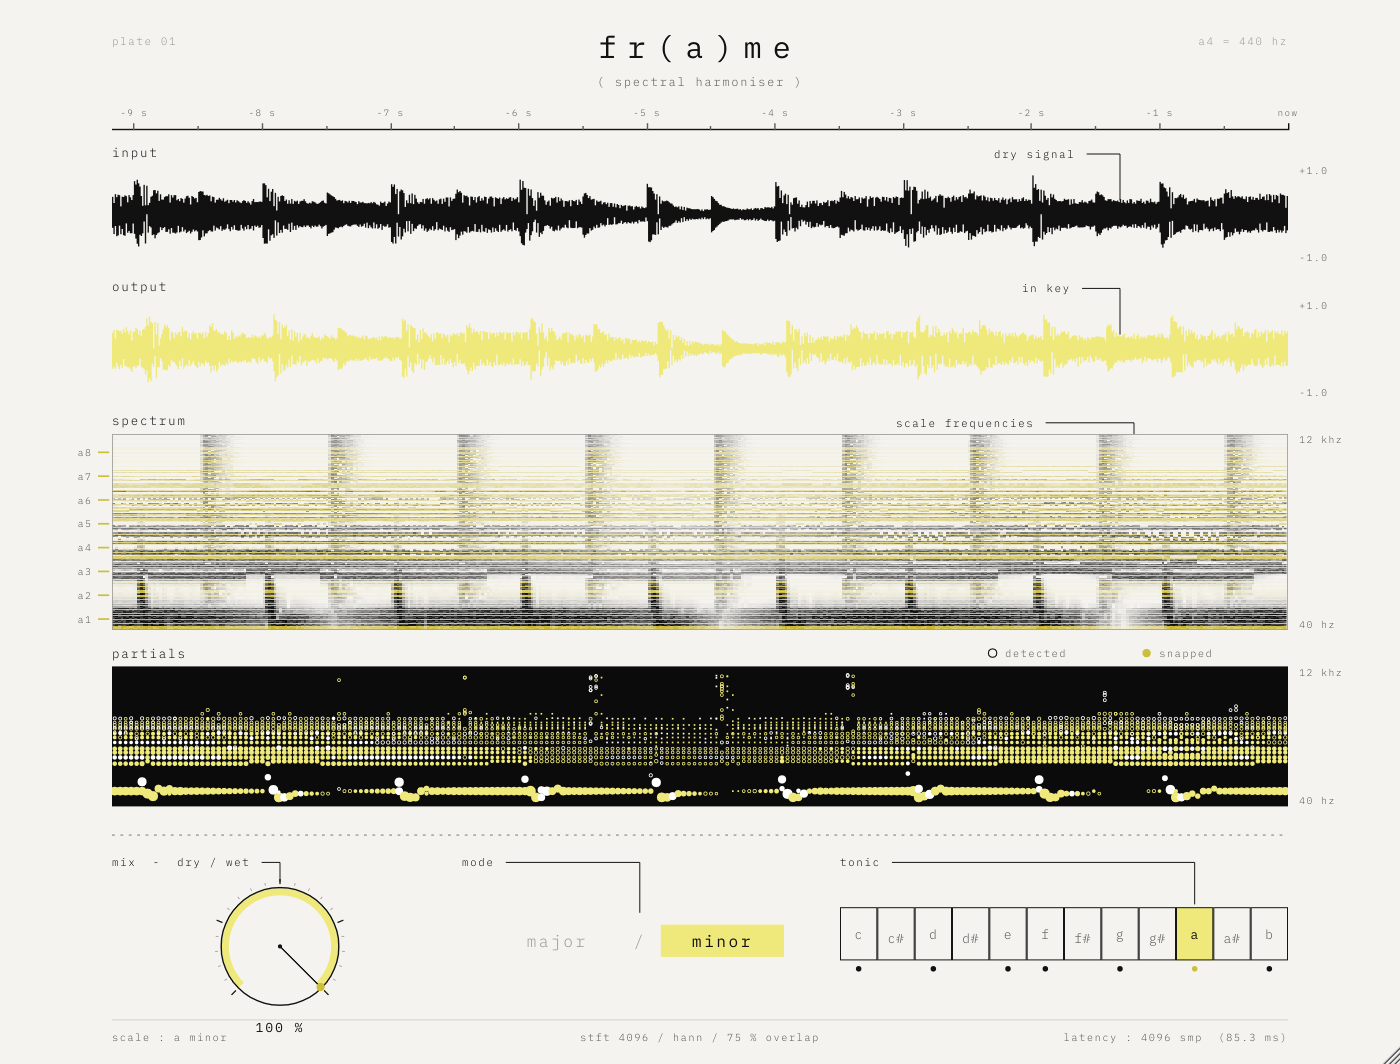
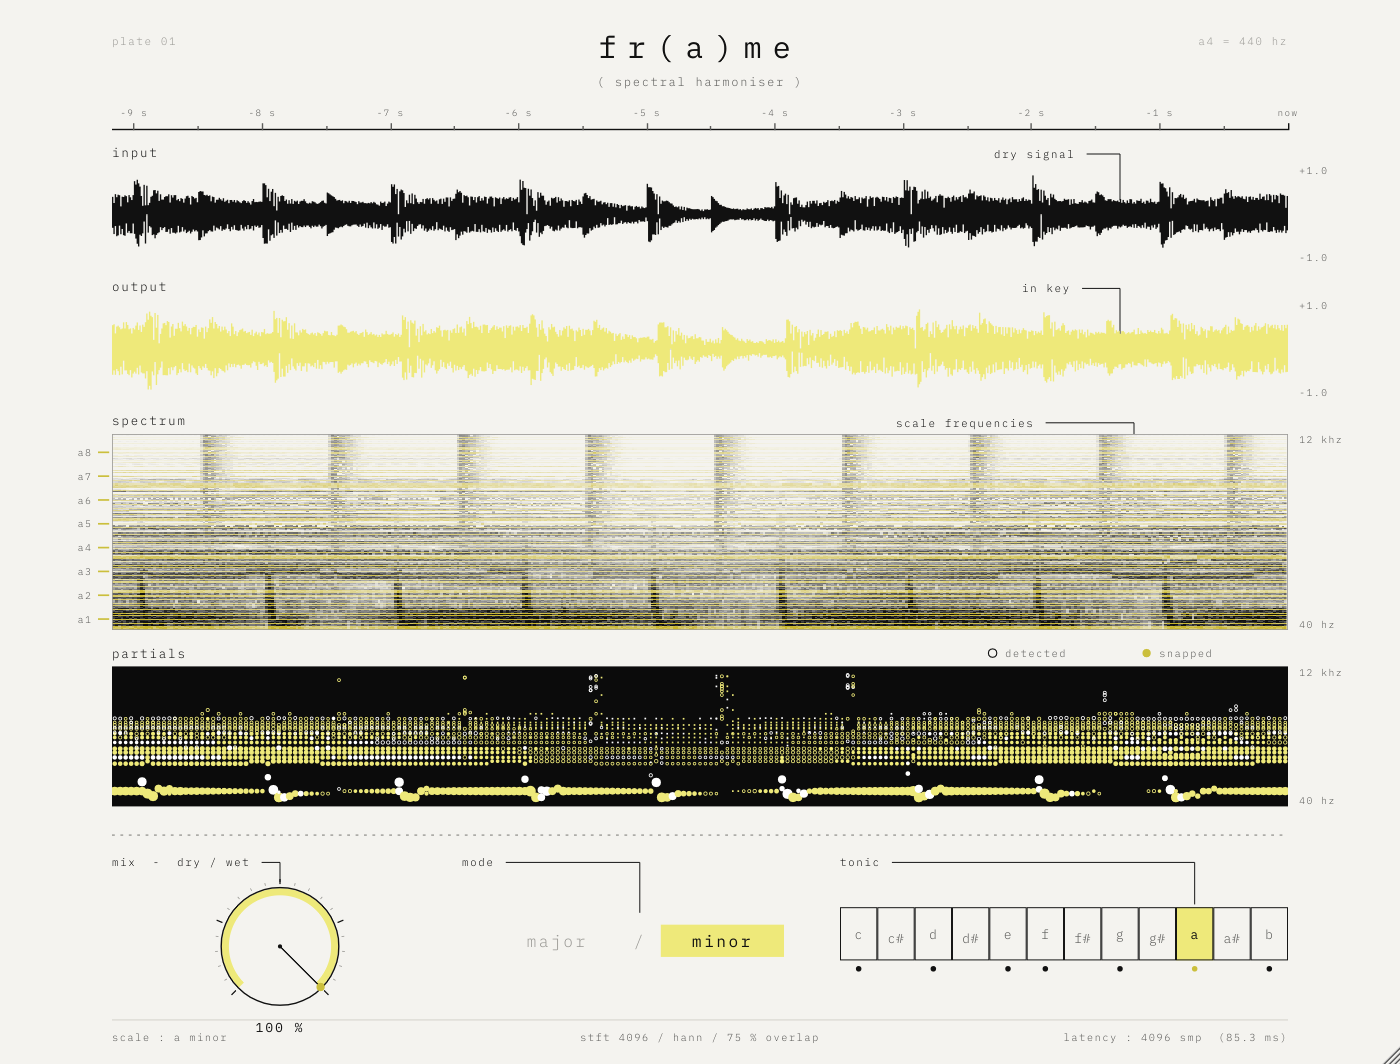
fr(a)me 1.1.0 : résonance harmonique (accords dans la gamme, queue ambiante)
- banque de résonateurs accordés sur la gamme, excités par les partiels recalés
- octave, tierce et quinte de la gamme ajoutées, T60 ≈ 4 s, stéréo large
- régions tonales recalées renforcées (+2 dB)
- test 7 : accord renforcé, rien hors gamme, queue qui s'éteint
- getTailLengthSeconds = 4.5 s

Claude-Session: https://claude.ai/code/session_01BthVUY6Bak1JTWBvTbc3au

Changed region(s): [[0.0614, 0.4652, 0.9214, 0.5893], [0.0921, 0.2791, 0.9214, 0.3722]]

diff --git a/Source/SpectralEngine.cpp b/Source/SpectralEngine.cpp
@@ -103,6 +103,21 @@ void SpectralEngine::prepare (double newSampleRate, int maxNumChannels)
     // Durée du fondu lors d'un changement de gamme : ~100 ms.
     scaleFadeStep = juce::jlimit (0.05f, 1.0f, (float) hopSize / (float) (0.1 * sampleRate));
 
+    // Résonateurs : montée ~90 ms, extinction T60 = resonanceT60Seconds.
+    {
+        const float framesPerSecond = (float) (sampleRate / hopSize);
+        resAttack = 1.0f - std::exp (-1.0f / (0.09f * framesPerSecond));
+        resDecay  = std::pow (10.0f, -3.0f / (resonanceT60Seconds * framesPerSecond));
+
+        // Phases de départ aléatoires (fixes) par note / harmonique / canal :
+        // les canaux ne sont pas corrélés, la queue s'ouvre en stéréo.
+        juce::Random rng (0xC0FFEE);
+        for (auto& note : resPhaseOffset)
+            for (auto& partial : note)
+                for (auto& ph : partial)
+                    ph = twoPi * rng.nextFloat();
+    }
+
     // Lignes du spectrogramme (axe logarithmique) → plages de bins.
     rowBinStart.assign (SpectralFrameInfo::numSpectrumRows, 0);
     rowBinEnd.assign   (SpectralFrameInfo::numSpectrumRows, 0);
@@ -133,6 +148,9 @@ void SpectralEngine::reset() noexcept
     prevNumPeaks = 0;
 
     rover = fftSize - hopSize;
+    resEnergy.fill (0.0f);
+    resExcite.fill (0.0f);
+    resPhase = resPhaseOffset;
     numPeaks = 0;
     firstFrame = true;
     previousMask = currentMask;
@@ -365,9 +383,13 @@ void SpectralEngine::processFrame() noexcept
 
         std::fill (Z.begin(), Z.end(), Complex {});
 
+        // Les partiels tonaux (donc recalés dans la gamme) sont renforcés.
+        const float tonalGain = 1.0f + 0.26f * resonanceAmount;   // ≈ +2 dB
+
         for (int p = 0; p < numPeaks; ++p)
         {
-            const Complex rot = std::polar (1.0f, peakTheta[(size_t) p]);
+            const float gain = peakTonalAge[(size_t) p] >= 1 ? tonalGain : 1.0f;
+            const Complex rot = std::polar (gain, peakTheta[(size_t) p]);
             const int shift = peakShift[(size_t) p];
             const int s = juce::jmax (regionStart[(size_t) p], -shift);
             const int e = juce::jmin (regionEnd[(size_t) p], numBins - 1 - shift);
@@ -376,7 +398,16 @@ void SpectralEngine::processFrame() noexcept
                 Z[(size_t) (k + shift)] += X[(size_t) k] * rot;
         }
 
+    }
+
+    // ---- 6b. Résonance harmonique -------------------------------------------
+    updateResonators();
+    addResonators (nch);
+
+    for (int c = 0; c < nch; ++c)
+    {
         // DC et Nyquist doivent rester réels pour une IFFT réelle.
+        auto& Z = spectrumOut[(size_t) c];
         Z[0] = { Z[0].real(), 0.0f };
         Z[(size_t) (numBins - 1)] = { Z[(size_t) (numBins - 1)].real(), 0.0f };
     }
@@ -404,6 +435,128 @@ void SpectralEngine::processFrame() noexcept
     firstFrame = false;
     if (scaleFade < 1.0f)
         scaleFade = juce::jmin (1.0f, scaleFade + scaleFadeStep);
+}
+
+//==============================================================================
+//  Résonance harmonique
+//==============================================================================
+int SpectralEngine::scaleStepAbove (int midiNote, int steps) const noexcept
+{
+    // Monte de `steps` degrés dans la gamme courante (2 = tierce, 4 = quinte).
+    int n = midiNote;
+    for (int found = 0, guard = 0; found < steps && guard < 24; ++guard)
+        if (frame::maskContains (currentMask, ++n))
+            ++found;
+    return n;
+}
+
+void SpectralEngine::updateResonators() noexcept
+{
+    const float fullScale = (float) fftSize * 0.25f;
+    resExcite.fill (0.0f);
+
+    auto excite = [this] (int note, float amp)
+    {
+        const int i = note - resLowNote;
+        if (i >= 0 && i < numResonators)
+            resExcite[(size_t) i] = juce::jmax (resExcite[(size_t) i], amp);
+    };
+
+    if (resonanceAmount > 0.0f && currentMask != 0)
+    {
+        for (int p = 0; p < numPeaks; ++p)
+        {
+            if (peakTonalAge[(size_t) p] < 1)
+                continue;                                 // bruit, attaques : pas d'excitation
+
+            const float amp = magnitude[(size_t) peakBin[(size_t) p]] / fullScale;
+            if (amp < 2.0e-4f)                            // < −74 dBFS : ignoré
+                continue;
+
+            const int note = (int) std::lround (frame::hzToMidi (peakTargetHz[(size_t) p]));
+            if (! frame::maskContains (currentMask, note))
+                continue;
+
+            excite (note,                         amp);          // la note elle-même
+            excite (note + 12,                    amp * 0.45f);  // octave
+            excite (scaleStepAbove (note, 4),     amp * 0.38f);  // quinte de la gamme
+            excite (scaleStepAbove (note, 2),     amp * 0.30f);  // tierce de la gamme
+        }
+    }
+
+    for (int i = 0; i < numResonators; ++i)
+    {
+        float& e = resEnergy[(size_t) i];
+        const float target = resExcite[(size_t) i];
+
+        if (! frame::maskContains (currentMask, resLowNote + i))
+            e *= 0.6f;                                    // hors gamme (après un changement) : extinction rapide
+        else if (target > e)
+            e += (target - e) * resAttack;                // montée douce (« bloom »)
+        else
+            e *= resDecay;                                // longue queue
+
+        if (e < 1.0e-6f)
+            e = 0.0f;
+    }
+}
+
+void SpectralEngine::addSinusoid (std::vector<Complex>& Z, float k0, float amplitude, float phase0) const noexcept
+{
+    // Spectre exact d'une sinusoïde fenêtrée par Hann (fenêtre de N points) :
+    //   X[k] = A/2 · e^{j(φ − πδ)} · N·(½ sinc δ + ¼ sinc(δ−1) + ¼ sinc(δ+1)),  δ = k − k0
+    // sur ±4 bins autour de k0 (au-delà, < −90 dB).
+    const int kc = (int) std::lround (k0);
+    const float scale = 0.5f * amplitude * (float) fftSize;
+
+    auto sinc = [] (float x) { return std::abs (x) < 1.0e-6f ? 1.0f : std::sin (pi * x) / (pi * x); };
+
+    for (int k = juce::jmax (1, kc - 4); k <= juce::jmin (numBins - 2, kc + 4); ++k)
+    {
+        const float d = (float) k - k0;
+        const float w = 0.5f * sinc (d) + 0.25f * (sinc (d - 1.0f) + sinc (d + 1.0f));
+        Z[(size_t) k] += std::polar (scale * w, phase0 - pi * d);
+    }
+}
+
+void SpectralEngine::addResonators (int nch) noexcept
+{
+    static constexpr float partialGain[resPartials] = { 1.0f, 0.5f, 0.28f, 0.16f, 0.09f };
+    static constexpr float detune[resChannels] = { 0.9992f, 1.0008f };   // ±1.4 cent : largeur stéréo
+
+    const float maxHz = juce::jmin (12000.0f, (float) sampleRate * 0.45f);
+    const float hopSeconds = (float) hopSize / (float) sampleRate;
+
+    // Normalisation : la somme des amplitudes reste sous ~−11 dBFS, quel que
+    // soit le nombre de notes qui sonnent.
+    float total = 0.0f;
+    for (float e : resEnergy) total += e;
+    const float level = 0.42f * resonanceAmount;
+    const float norm = (total * level > 0.28f) ? 0.28f / (total * level) : 1.0f;
+
+    for (int i = 0; i < numResonators; ++i)
+    {
+        const float e = resEnergy[(size_t) i];
+        const float f0 = (float) frame::midiToHz (resLowNote + i);
+
+        for (int h = 0; h < resPartials; ++h)
+        {
+            const float f = f0 * (float) (h + 1);
+
+            for (int c = 0; c < resChannels; ++c)
+            {
+                const float fc = f * (nch > 1 ? detune[c] : 1.0f);
+                float& ph = resPhase[(size_t) i][(size_t) h][(size_t) c];
+
+                if (e > 0.0f && f < maxHz && c < nch)
+                    addSinusoid (spectrumOut[(size_t) c], fc / binHz, e * level * norm * partialGain[h], ph);
+
+                // La phase avance à chaque trame, que la note sonne ou non :
+                // elle reprend toujours de façon continue.
+                ph = wrapPhase (ph + twoPi * fc * hopSeconds);
+            }
+        }
+    }
 }
 
 //==============================================================================

diff --git a/tests/EngineTest.cpp b/tests/EngineTest.cpp
@@ -106,6 +106,7 @@ int main (int argc, char** argv)
 
     SpectralEngine engine;
     engine.prepare (sr, 2);
+    engine.setResonanceAmount (0.0f);      // tests 1 à 6 : recalage seul (mesurable)
     const int latency = engine.getLatencySamples();
     std::printf ("fft %d, latence %d échantillons (%.1f ms)\n", engine.getFftSize(), latency, 1000.0 * latency / sr);
 
@@ -171,7 +172,7 @@ int main (int argc, char** argv)
         juce::AudioBuffer<float> b (1, len);
         b.clear();
         sine (b, 300.0, 0.5f);
-        SpectralEngine e; e.prepare (sr, 1);
+        SpectralEngine e; e.prepare (sr, 1); e.setResonanceAmount (0.0f);
         float maxJump = 0.0f, steadyJump = 0.0f;
         const int block = 256;
         for (int pos = 0; pos < len; pos += block)
@@ -313,6 +314,51 @@ int main (int argc, char** argv)
             writeWav (outDir.getChildFile ("drums_avant.wav"), dry);
             writeWav (outDir.getChildFile ("drums_apres_do_majeur.wav"), b);
         }
+    }
+
+    // ---- 7. Résonance harmonique : accord dans la gamme + queue ambiante -----
+    {
+        std::printf ("7. résonance harmonique (la4 tenu 1 s puis silence, la mineur)\n");
+        const int len = (int) sr * 5, stop = (int) sr;
+        juce::AudioBuffer<float> b (2, len);
+        b.clear();
+        sine (b, 440.0, 0.4f, 0, stop);
+        for (int n = stop - 480; n < stop; ++n)               // fin du sinus en fondu (pas de clic)
+            for (int c = 0; c < 2; ++c) b.setSample (c, n, b.getSample (c, n) * (float) (stop - n) / 480.0f);
+
+        SpectralEngine e; e.prepare (sr, 2);
+        runEngine (e, b, 512, aMinor);
+
+        bool finite = true; float peak = 0.0f;
+        for (int c = 0; c < 2; ++c) for (int n = 0; n < len; ++n)
+        { const float v = b.getSample (c, n); finite &= std::isfinite (v); peak = juce::jmax (peak, std::abs (v)); }
+
+        // Niveau des notes de l'accord pendant la note tenue (fenêtre 0.5–1 s, réalignée)
+        auto bandLevel = [&] (int start, double hz)
+        {
+            constexpr int order = 14, N = 1 << order;
+            juce::dsp::FFT f (order);
+            std::vector<float> w ((size_t) N * 2, 0.0f);
+            for (int n = 0; n < N; ++n)
+                w[(size_t) n] = b.getSample (0, start + n) * (0.5f - 0.5f * std::cos (juce::MathConstants<float>::twoPi * (float) n / (float) N));
+            f.performFrequencyOnlyForwardTransform (w.data(), true);
+            const int k = (int) std::lround (hz * N / sr);
+            float m = 0; for (int j = k - 3; j <= k + 3; ++j) m = juce::jmax (m, w[(size_t) j]);
+            return juce::Decibels::gainToDecibels (m / (N * 0.25f), -150.0f);
+        };
+        const int hold = latency + (int) (0.6 * sr);
+        const float a4 = bandLevel (hold, 440.0), a5 = bandLevel (hold, 880.0),
+                    e5 = bandLevel (hold, 659.26), c5 = bandLevel (hold, 523.25), bb = bandLevel (hold, 466.16);
+        std::printf ("     pendant : la4 %.1f dB  la5 %.1f  mi5 (quinte) %.1f  do5 (tierce) %.1f  | la#4 (hors gamme) %.1f\n", a4, a5, e5, c5, bb);
+
+        auto rms = [&] (double t0) { return juce::Decibels::gainToDecibels (b.getRMSLevel (0, latency + (int) (t0 * sr), (int) (0.2 * sr)), -150.0f); };
+        const float r05 = rms (1.5), r25 = rms (3.0), r45 = rms (4.6);
+        std::printf ("     queue après l'arrêt : +0.5 s %.1f dB, +2 s %.1f dB, +3.6 s %.1f dB ; crête %.2f\n", r05, r25, r45, peak);
+
+        check (finite && peak < 1.0f, "pas de saturation ni de valeur invalide");
+        check (a5 > -45.0f && e5 > -45.0f && c5 > -50.0f && bb < c5 - 25.0f, "octave, quinte et tierce de la gamme renforcées, rien hors gamme");
+        check (r05 > -40.0f && r25 < r05 - 6.0f && r45 < r25, "queue ambiante qui s'éteint progressivement");
+        if (outDir != juce::File()) writeWav (outDir.getChildFile ("resonance_la_mineur.wav"), b);
     }
 
     std::printf ("\n%s (%d échec%s)\n", failures == 0 ? "TOUS LES TESTS PASSENT" : "ÉCHECS", failures, failures > 1 ? "s" : "");

diff --git a/Source/SpectralEngine.h b/Source/SpectralEngine.h
@@ -27,7 +27,18 @@
          pas, on recale.
       5. Le même déplacement / phaseur est appliqué à chaque canal : l'image
          stéréo est conservée.
-      6. IFFT, fenêtre de synthèse de Hann, overlap-add.
+      6. Résonance harmonique (« chroma ») : chaque partiel tonal recalé excite
+         une banque de résonateurs accordés sur les notes de la gamme. Chaque
+         résonateur excité sonne sa note avec 5 harmoniques, et appelle aussi
+         l'octave, la tierce et la quinte DE LA GAMME au-dessus : l'harmonie est
+         renforcée en accords dans la tonalité. Les résonateurs montent en
+         douceur (~90 ms) et s'éteignent lentement (T60 ≈ 4 s), avec un léger
+         désaccord gauche/droite : une queue ambiante, comme une réverbe qui
+         ne jouerait que des notes justes. Ils sont synthétisés directement
+         dans le domaine spectral (noyau de Hann exact, phase continue). Les
+         régions tonales recalées sont aussi légèrement amplifiées (+2 dB).
+         Bruit et transitoires n'excitent pas les résonateurs.
+      7. IFFT, fenêtre de synthèse de Hann, overlap-add.
 
     Contraintes temps réel : toutes les mémoires sont allouées dans prepare().
     process() n'alloue rien et ne prend aucun verrou. Les données de
@@ -39,6 +50,7 @@
 
 #include <juce_audio_basics/juce_audio_basics.h>
 #include <juce_dsp/juce_dsp.h>
+#include <array>
 #include <atomic>
 #include <complex>
 #include <memory>
@@ -89,6 +101,13 @@ public:
         Réservé aux tests / à l'usage interne : le plugin utilise 1. */
     void setCorrectionAmount (float amount) noexcept { correctionAmount = juce::jlimit (0.0f, 1.0f, amount); }
 
+    /** Intensité de la résonance harmonique (0 = recalage seul, 1 = défaut).
+        Usage interne / tests. */
+    void setResonanceAmount (float amount) noexcept { resonanceAmount = juce::jlimit (0.0f, 2.0f, amount); }
+
+    /** Durée de la queue de résonance (pour getTailLengthSeconds). */
+    static constexpr float resonanceT60Seconds = 4.0f;
+
     /** Traite le bloc en place : en sortie, le signal 100 % traité ("wet"),
         retardé de getLatencySamples(). Nombre de canaux ≤ maxNumChannels. */
     void process (juce::AudioBuffer<float>& buffer) noexcept;
@@ -102,6 +121,10 @@ private:
     void processFrame() noexcept;
     float targetFrequencyFor (float hz) const noexcept;
     void publishVisualFrame (int numChannelsUsed) noexcept;
+    void updateResonators() noexcept;
+    void addResonators (int numChannelsUsed) noexcept;
+    void addSinusoid (std::vector<Complex>& Z, float binPos, float amplitude, float phase0) const noexcept;
+    int scaleStepAbove (int midiNote, int steps) const noexcept;
 
     // --- configuration -------------------------------------------------------
     double sampleRate = 44100.0;
@@ -148,6 +171,18 @@ private:
     uint16_t currentMask = 0, previousMask = 0;
     float scaleFade = 1.0f;                       // 0 → 1 : de previousMask vers currentMask
     float scaleFadeStep = 0.25f;
+
+    // --- résonance harmonique -------------------------------------------------
+    static constexpr int resLowNote  = 28;        // E1 ≈ 41 Hz
+    static constexpr int resHighNote = 100;       // E7 ≈ 2.6 kHz (fondamentales)
+    static constexpr int numResonators = resHighNote - resLowNote + 1;
+    static constexpr int resPartials = 5;
+    static constexpr int resChannels = 2;
+    float resonanceAmount = 1.0f;
+    float resAttack = 0.25f, resDecay = 0.99f;
+    std::array<float, numResonators> resEnergy {}, resExcite {};
+    std::array<std::array<std::array<float, resChannels>, resPartials>, numResonators> resPhase {};
+    std::array<std::array<std::array<float, resChannels>, resPartials>, numResonators> resPhaseOffset {};
 
     // --- visualisation --------------------------------------------------------
     LockFreeQueue<SpectralFrameInfo, 32> visualQueue;

diff --git a/Source/PluginProcessor.h b/Source/PluginProcessor.h
@@ -50,7 +50,7 @@ public:
     bool acceptsMidi() const override  { return false; }
     bool producesMidi() const override { return false; }
     bool isMidiEffect() const override { return false; }
-    double getTailLengthSeconds() const override { return 0.0; }
+    double getTailLengthSeconds() const override { return SpectralEngine::resonanceT60Seconds + 0.5; }   // queue de résonance
 
     int getNumPrograms() override    { return 1; }
     int getCurrentProgram() override { return 0; }

diff --git a/README.md b/README.md
@@ -124,6 +124,8 @@ Résultats obtenus pendant le développement (48 kHz) :
 | changement de gamme pendant la lecture | aucune discontinuité |
 | accord de scies désaccordées (pad) | énergie dans la gamme : 10 % → 88.6 % |
 | percussions : enveloppe 2 ms entrée/sortie | corrélation 0.98 (attaques conservées) |
+| la4 tenu (la mineur) : octave / quinte / tierce ajoutées | −25 / −26 / −29 dB ; la# hors gamme à −67 dB |
+| queue de résonance après l'arrêt | −27 dB à 0.5 s, −50 dB à 2 s, −74 dB à 3.6 s |
 | taille de bloc variable | sortie identique à l'échantillon près |
 
 Une cible `FrameUiSnapshot` (même option) produit une capture PNG de l'interface.
@@ -180,6 +182,16 @@ viennent d'apparaître passent avec leur phase d'origine : kicks, caisses claire
 consonnes restent nets. L'infra-grave (< 25 Hz) et l'extrême aigu (> 16 kHz) ne sont
 pas touchés.
 
+**Résonance harmonique (« chroma »).** Chaque partiel tonal recalé excite une banque de
+résonateurs accordés sur les notes de la gamme (E1 → E7). Un résonateur excité sonne sa
+note avec 5 harmoniques et appelle aussi l'octave, la tierce et la quinte *de la gamme*
+au-dessus : l'harmonie se renforce en accords dans la tonalité. Montée douce (~90 ms),
+extinction lente (T60 ≈ 4 s), léger désaccord gauche/droite : une queue ambiante, large,
+qui ne joue que des notes justes. Les régions tonales recalées gagnent aussi ~2 dB.
+Le bruit et les attaques n'excitent pas les résonateurs, les drums restent secs.
+Les résonateurs sont synthétisés directement dans le spectre (noyau de Hann exact,
+phase continue), sans coût notable.
+
 **Resynthèse.** IFFT, fenêtre de synthèse de Hann, overlap-add normalisé
 (reconstruction parfaite quand rien n'est déplacé).
 
@@ -194,7 +206,7 @@ latence est conservée.
 **Temps réel.** Toute la mémoire est allouée dans `prepareToPlay`. Le thread audio
 n'alloue rien et ne prend aucun verrou ; les formes d'onde et les trames spectrales
 partent vers l'interface par deux `LockFreeQueue` (juce::AbstractFifo). Coût mesuré :
-moins de 2 % d'un cœur en stéréo à 48 kHz (build Release).
+environ 2.5 % d'un cœur en stéréo à 48 kHz (build Release).
 
 ---
 
